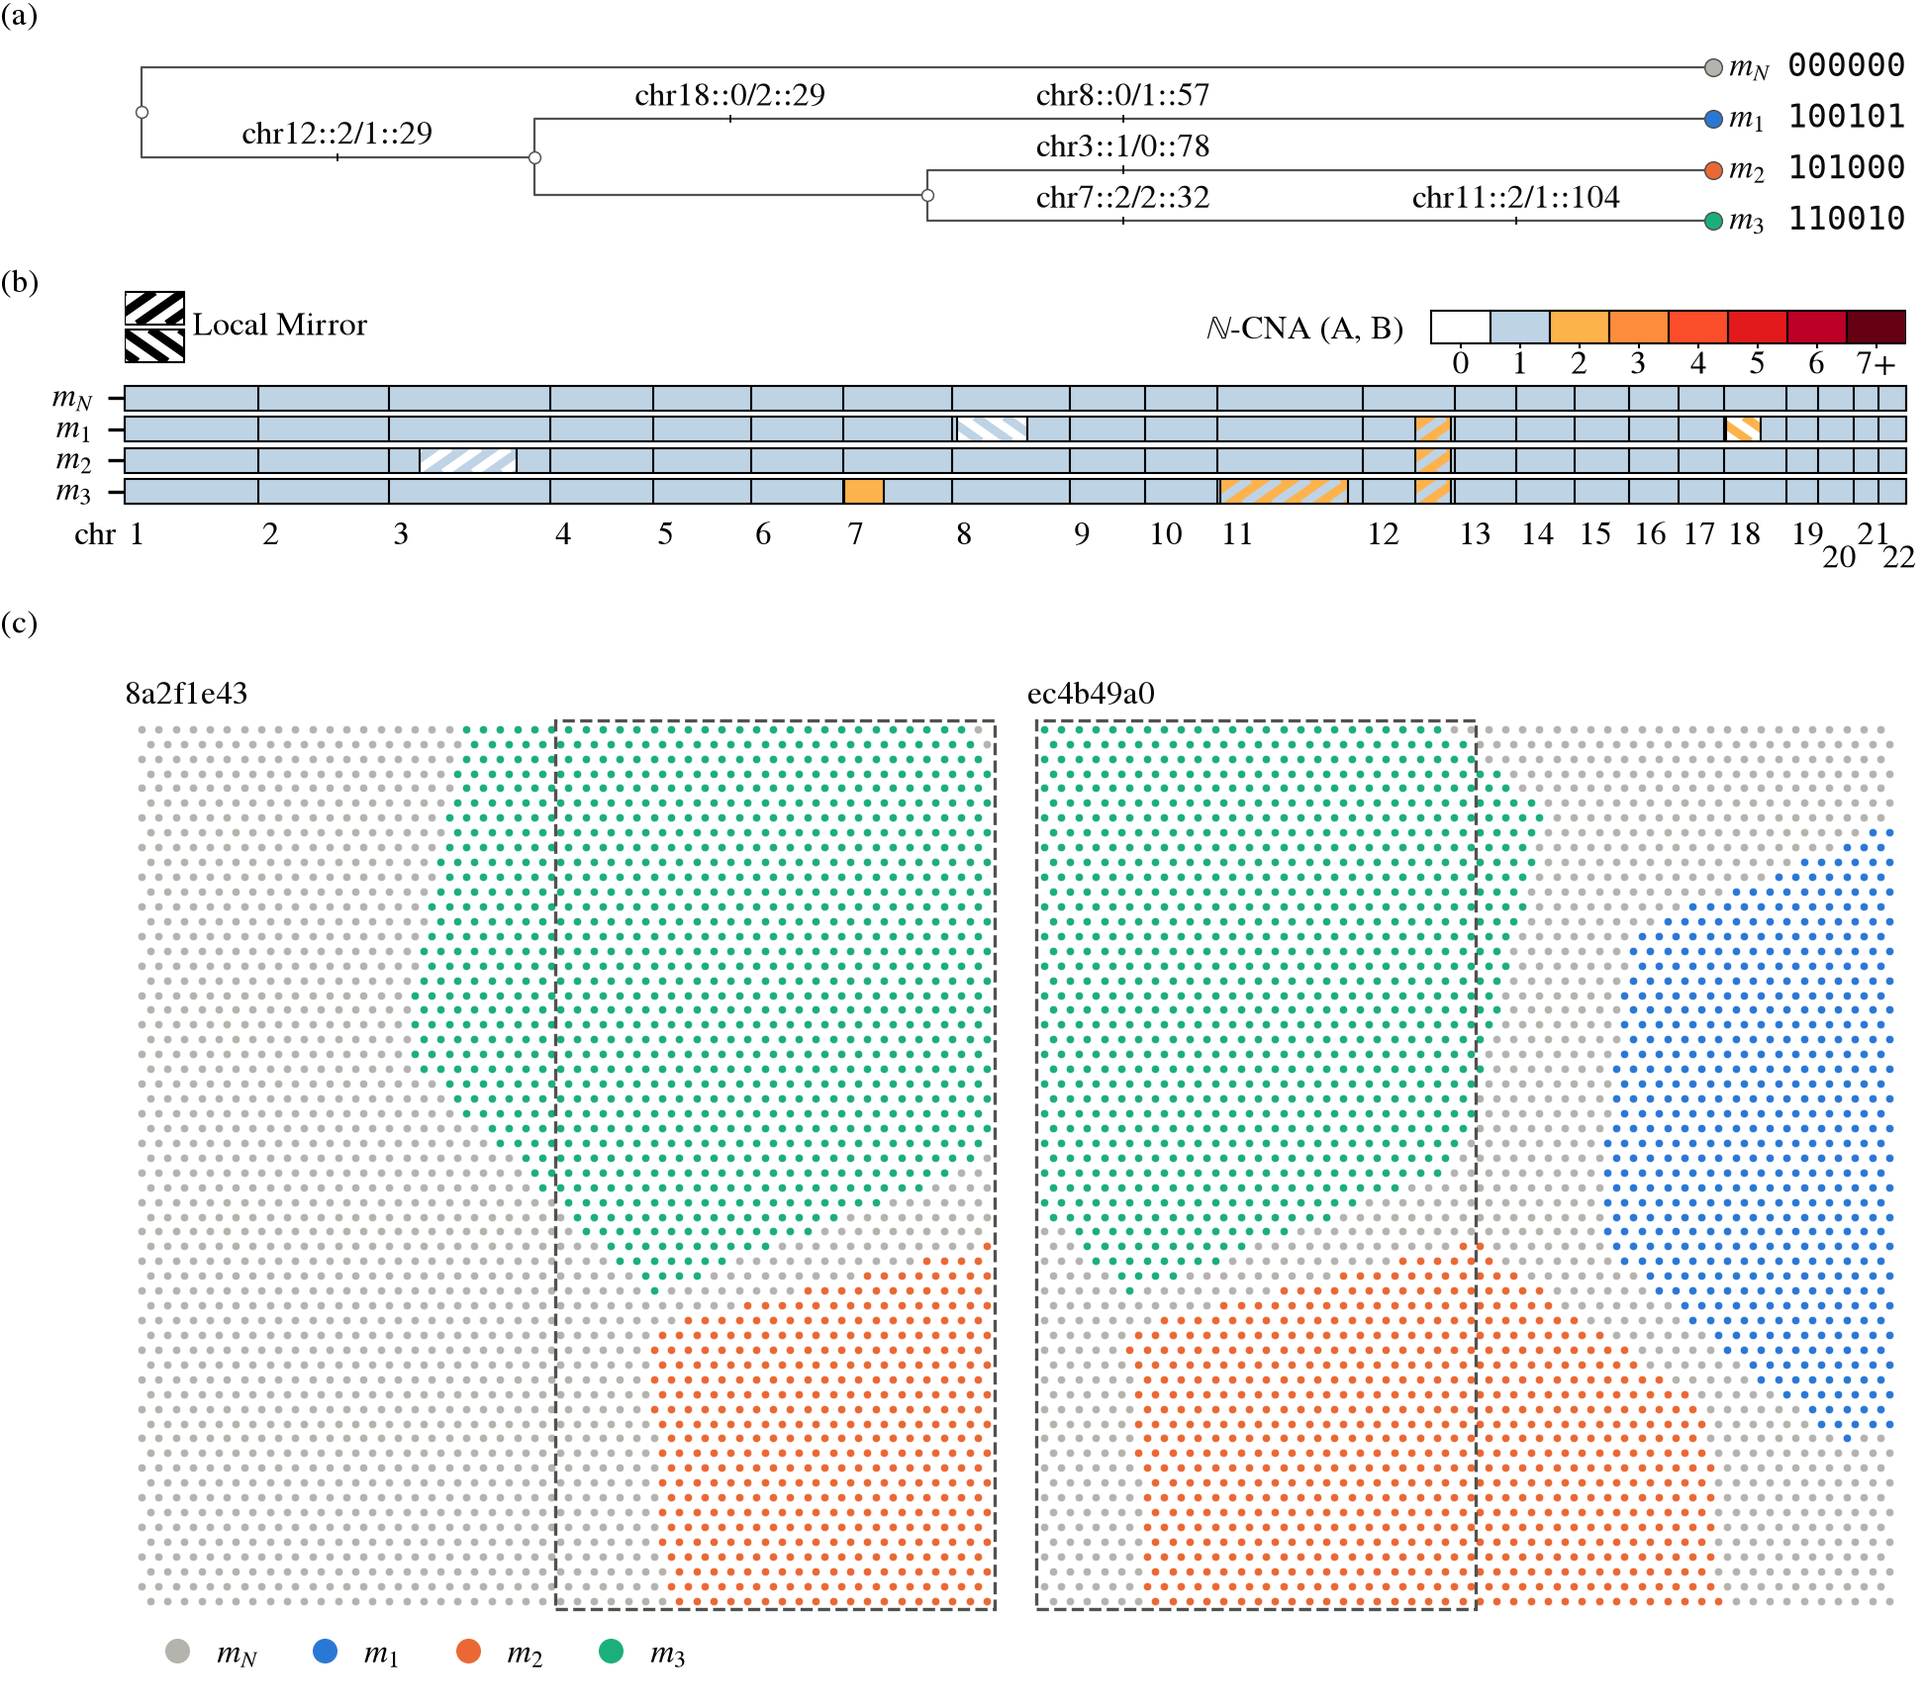
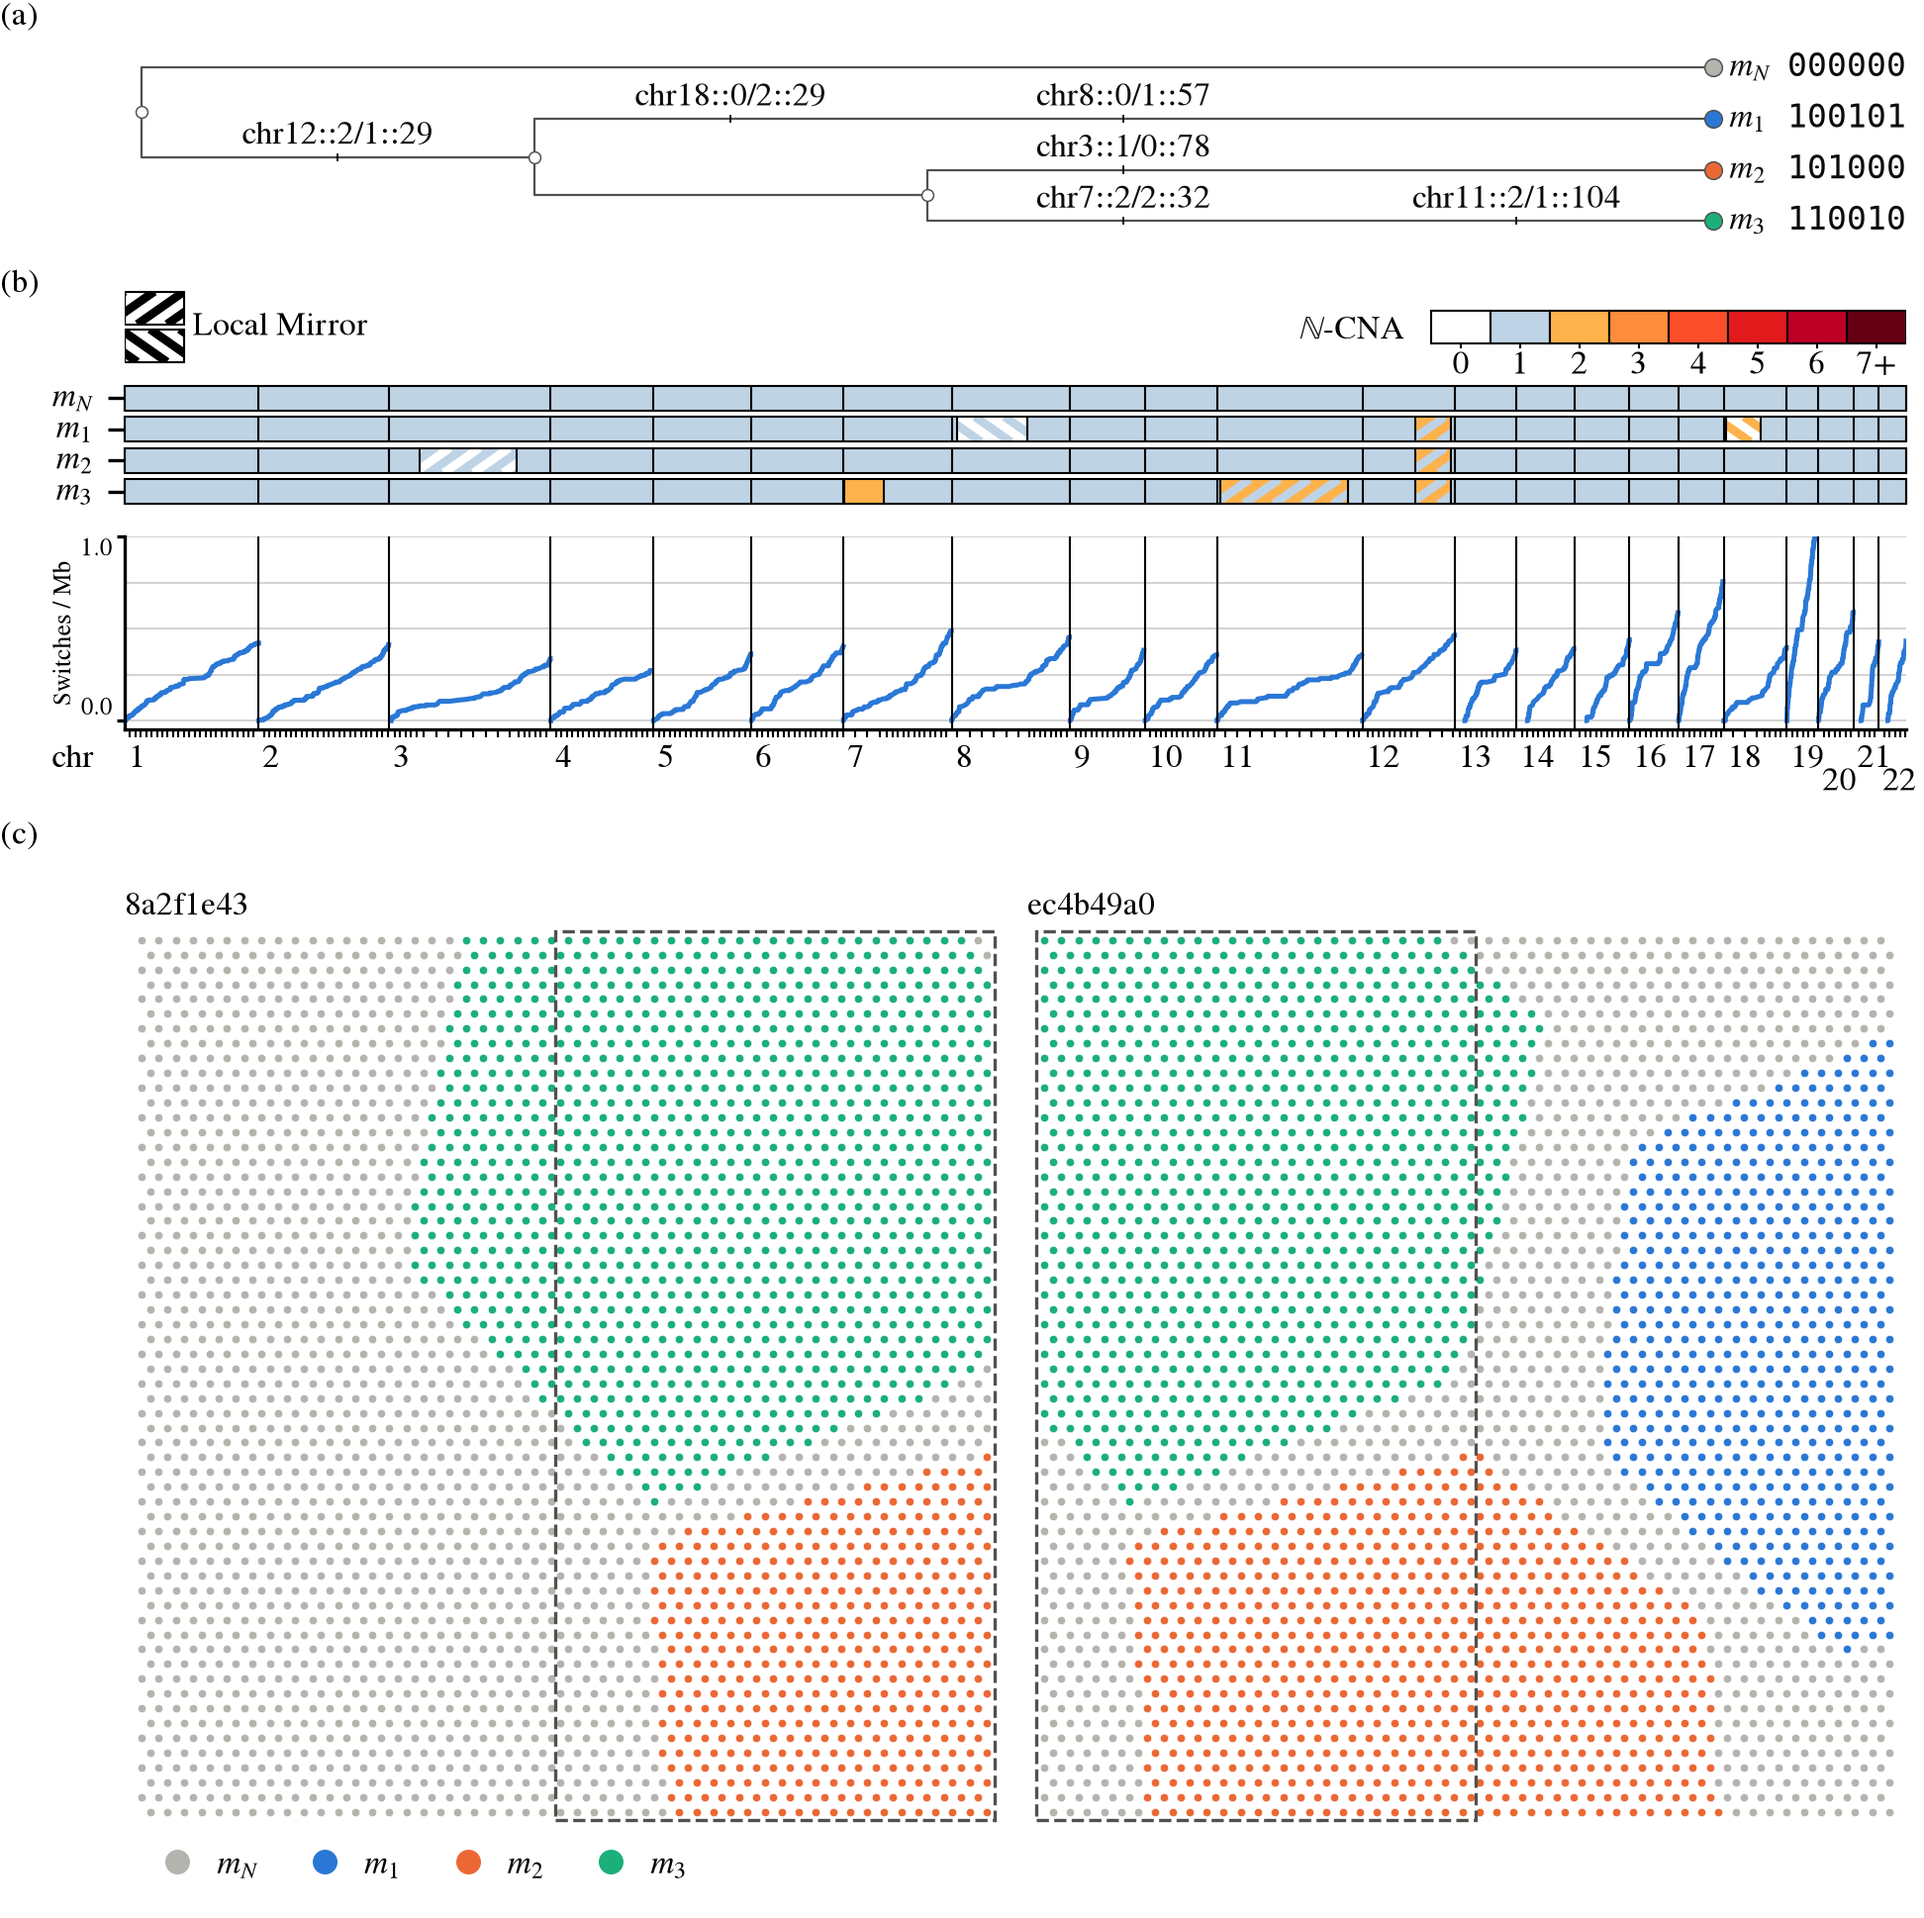
#794: docs/plots/paper regenerated at 24ef258
Run `24ef258-dev_tree_1s_easy_r0-0120` on dev_tree_1s_easy r0 (7ba9b01f):
clone ARI 0.9798, copy ARI pf 0.9335, exact altered pf 0.8992 (phased
0.1473), as at 10a9e27; 127 s wall (219 s at 10a9e27, a different host
load), 3.52 GB peak.
- truth_combined_spatial: phase track and marks under (b), 6.48 x 7.18 in.
- truth_combined_spatial_multisample: the same, 5.75 -> 6.46 in tall.
- truth_combined, _multisample, combined: the colour-bar title alone
  (2,044, 2,044 and 2,097 px).
- spatial_multisample: 3,999 px of glyph anti-aliasing, no code change.

Claude-Session: https://claude.ai/code/session_01Luyop9AfcomqiEK7v6NLLr

diff --git a/docs/plots/paper/README.md b/docs/plots/paper/README.md
@@ -4,8 +4,8 @@
 0.9335, exact altered (phase-free)
 0.8992 (phased 0.1473), from one
 `run_cnaster_port --sal --png-copies` run on `sim/manifests/dev_tree_1s_easy.toml` r0 at
-code `10a9e27`: 219 s wall, 3.53 GB peak.
-Ledger `run_id` `10a9e27-dev_tree_1s_easy_r0-2151` (`docs/metrics/`, fixture `dev_tree_1s_easy_r0` `7ba9b01f`).
+code `24ef258`: 127 s wall, 3.52 GB peak.
+Ledger `run_id` `24ef258-dev_tree_1s_easy_r0-0120` (`docs/metrics/`, fixture `dev_tree_1s_easy_r0` `7ba9b01f`).
 
 Regenerate from a clean tree, so the commit above carries no `+`; it draws r0 into
 `.cache/paper_figures/` where `--draw` is not given, and refuses any r0 not
@@ -18,7 +18,7 @@ headline figures alone (#745); every other page the run draws (the truth's panel
 the run's own pages, cnaster's copies and the truth-against-fit comparisons) is
 written under `.cache/plots/paper/` and regenerated on demand (`curate`). The figures
 carry no stamp (#743): `truth_combined.png` and `combined.png` are `dev_tree_1s_easy` r0
-`7ba9b01f` at code `10a9e27`, as above. `combined.png` draws panel (a) on a slide
+`7ba9b01f` at code `24ef258`, as above. `combined.png` draws panel (a) on a slide
 mocked from the planted labels (`port.sim.he_slide`): the fixture has no H&E image,
 and the run never reads the mock. `solver_combined.png` is not drawn from this fixture:
 `--solvers POTTS.record COPY.record` draws it from a `port.studies.potts_stream` and a
@@ -30,8 +30,8 @@ T- #683), each on its own segmentation, so their contig widths differ.
 
 | File | Question | Source |
 | --- | --- | --- |
-| `truth_combined.png` | What was planted, on one page: tree, (A, B) profile, RDR and BAF per tumour clone, and the phase switches? | `port.sim.truth_figure.truth_combined_figure` |
-| `truth_combined_spatial.png` | The same, with where each true clone lies in place of RDR and BAF per clone? | `port.sim.truth_figure.truth_combined_figure(spatial=True)` |
+| `truth_combined.png` | What was planted, on one page: tree, copy-number profile, RDR and BAF per tumour clone, and the phase switches? | `port.sim.truth_figure.truth_combined_figure` |
+| `truth_combined_spatial.png` | The same, with where each true clone lies in place of RDR and BAF per clone, the phase switches under (b)? | `port.sim.truth_figure.truth_combined_figure(spatial=True)` |
 | `truth_combined_multisample.png` | The same, for the fixture's multi-sample counterpart: the same clones and laws on two overlapping slices, phase switch errors on? | `multisample_pages`: `truth_combined_figure` on `MULTISAMPLE[fixture]`'s r0 (`sim/manifests/dev_tree_easy.toml`) |
 | `truth_combined_spatial_multisample.png` | The same with where each true clone lies, for the counterpart: each slice, the region they share dashed? | `multisample_pages`: `truth_combined_figure(spatial=True)` on `MULTISAMPLE[fixture]`'s r0 |
 | `spatial_multisample.png` | Where is each true clone on each of the counterpart's slices? | `multisample_pages`: `port.sim.analysis.plot_spatial` |
